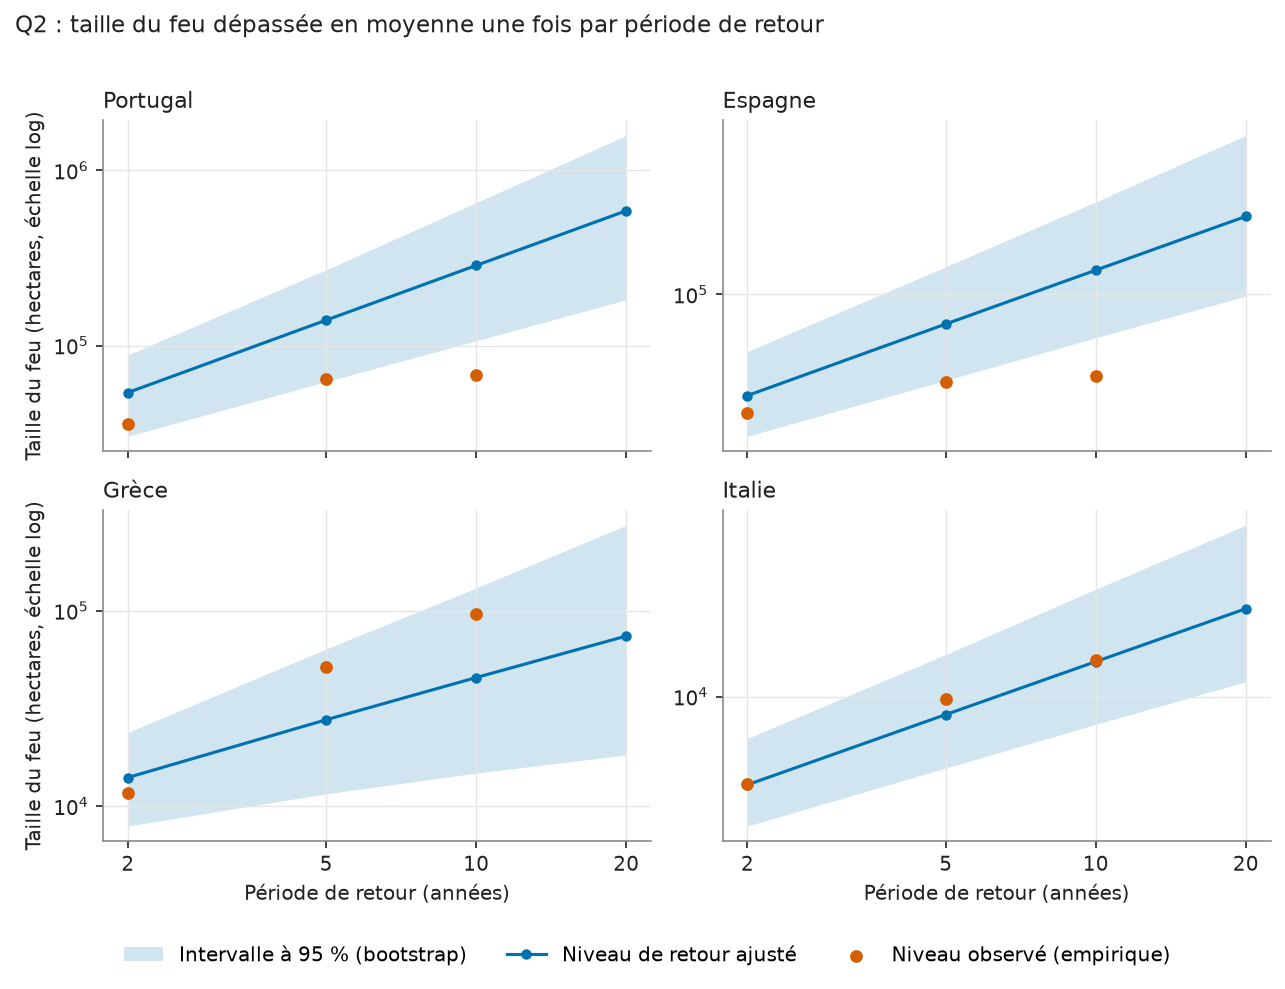
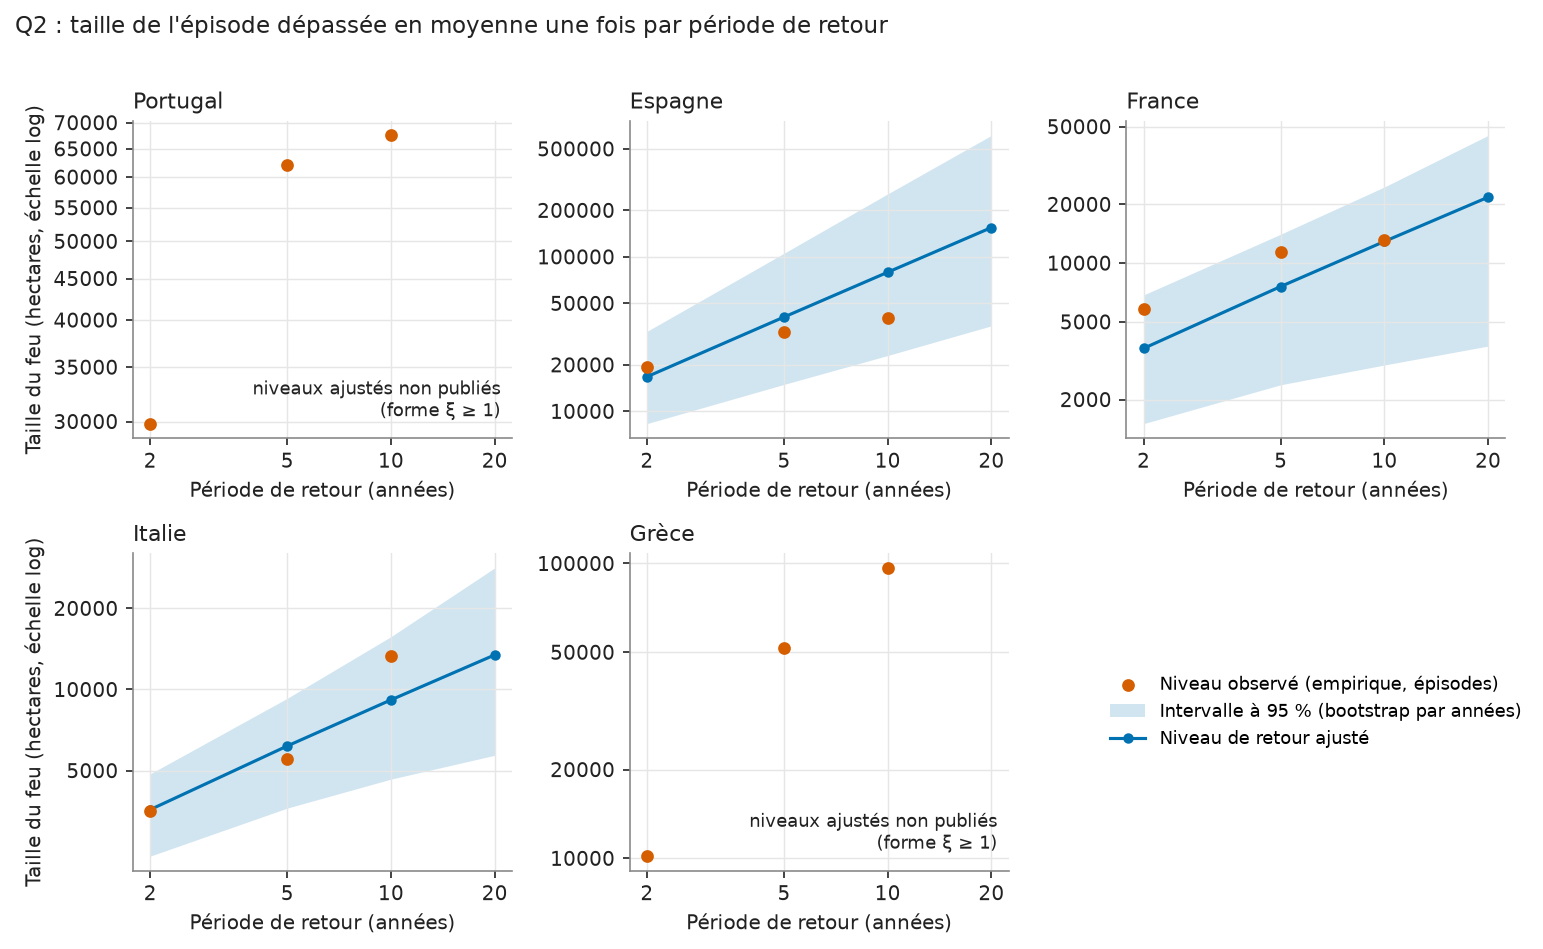
docs(models): Q2 card for episodes above 500 ha, block bootstrap, perimeter and before/after table

diff --git a/docs/models/q2-tail-risk.md b/docs/models/q2-tail-risk.md
@@ -1,8 +1,9 @@
 # Carte de modèle : Q2, queue des tailles de feux
 
-Run MLflow : `d5672f4785b64c8f8487e87cf845694c` (expérience `q2_tail_risk`, run
-`country_20261109`), 2026-11-09. Les deux tables `tail_risk_country` et
-`tail_risk_levels` portent ce `run_id` sur chaque ligne.
+Run MLflow : `919e872312014525961c955053b1f8b5` (expérience `q2_tail_risk`, run
+`country_20261109`, tag `published=true`), 2026-11-09. Les tables
+`tail_risk_country`, `tail_risk_levels` et `tail_risk_threshold_stability` portent
+ce `run_id` sur chaque ligne.
 
 ## Question
 
@@ -14,14 +15,22 @@ qui est dominée par la saison la plus sèche de la période.
 ## Données
 
 - Table `fact_fireevent`, lignes EFFIS : un feu cartographié, sa surface en
-  hectares, sa date de départ, son pays.
-- Plancher de 30 ha : les feux plus petits ne sont pas modélisés.
-- 50 pays ou territoires, 41 578 feux au total. 28 pays ont 10 années complètes
-  (2016 à 2025) ; les 22 autres entrent plus tard dans le registre et ont de 1 à 9
-  années, l'Ukraine 6 (2020 à 2025).
+  hectares, sa date de départ, son pays. 50 pays ou territoires dans le registre.
+- Seuil absolu de 500 ha, le même partout (voir Méthode). Les feux plus petits ne
+  sont pas modélisés.
 - Seules les années complètes comptent : l'extraction 2026 s'arrête en juillet,
   avant la plus grande part de la saison du Sud, et la compter comme une année
-  entière ferait baisser le taux de feux.
+  entière ferait baisser le taux. La période de chaque pays va de son premier
+  enregistrement, de toute taille, à 2025 : 2016 à 2025 pour les 28 pays les plus
+  anciens du registre.
+- **Périmètre publié : 8 pays sur 50.** Pays de l'UE27 avec au moins 8 années
+  complètes et au moins 30 épisodes au-dessus du seuil : Bulgarie, Croatie,
+  Espagne, France, Grèce, Italie, Portugal, Roumanie. Les 42 autres sont exclus :
+  24 hors UE27 (Algérie, Ukraine, Turquie, Syrie et d'autres, dont la complétude du
+  registre n'est pas évaluée), 15 de l'UE27 avec moins de 30 épisodes (dont
+  l'Allemagne : 7), 3 de l'UE27 avec moins de 8 années (Autriche, Lituanie,
+  Slovaquie). Le motif est dans la colonne `scope_reason` de la table complète,
+  loguée comme artefact `perimeter` du run.
 
 ## Méthode
 
@@ -29,155 +38,175 @@ Une loi de probabilité ajustée sur tous les feux décrirait surtout les petits
 On ne modélise donc que la queue, par la méthode des dépassements de seuil
 (peaks over threshold), pays par pays :
 
-1. **Seuil** : le quantile 90 % des surfaces du pays (`threshold_quantile=0.9`).
-   Pour le Portugal, 835,7 ha. Les feux au-dessus du seuil sont les
-   dépassements : 214 sur 10 ans, soit un taux de 21,4 par an.
-2. **Loi de Pareto généralisée (GPD)** sur l'excès de chaque dépassement au-dessus
-   du seuil, ajustée par maximum de vraisemblance. Deux paramètres : une échelle
+1. **Seuil absolu de 500 ha.** Un quantile des tailles du pays dépendrait du plancher de
+   cartographie EFFIS, qui est passé de 15 à 24 ha avant 2020 à 0 à 1 ha après : le
+   quantile 90 d'un mélange qui change de composition. Le nombre annuel de feux de
+   plus de 500 ha ne dépend pas de ce plancher.
+2. **Déclustering par épisode.** Dans un même pays, les feux au-dessus du seuil dont
+   les dates sont séparées de 3 jours ou moins sont fusionnés en un épisode, chaîné
+   (chaque feu est comparé au précédent dépassement). On garde le plus gros feu de
+   l'épisode. Les dépassements groupés sont un même épisode météo et ne sont pas
+   indépendants, ce que la loi suppose. Le Portugal passe ainsi de 313 feux de plus
+   de 500 ha à 63 épisodes.
+3. **Loi de Pareto généralisée (GPD)** sur l'excès de chaque épisode au-dessus du
+   seuil, ajustée par maximum de vraisemblance. Deux paramètres : une échelle
    et une **forme** ξ. La forme dit à quelle vitesse la queue s'amincit. ξ = 0 :
    décroissance exponentielle. ξ > 0 : queue lourde, les très gros feux restent
    plausibles. ξ ≥ 1 : l'espérance de l'excès n'existe plus, c'est-à-dire que la
-   moyenne des plus gros feux n'est pas bornée par le modèle.
-3. **Niveau de retour** x_T : la taille dépassée en moyenne une fois toutes les
-   T années, `x_T = u + (sigma / xi) * ((T * taux)^xi - 1)`. C'est ce que montre la
-   courbe : on lit « un feu d'au moins x hectares une fois tous les T ans ».
-4. **Intervalle** : 500 rééchantillonnages bootstrap des dépassements, refit à
-   chaque fois, percentiles 2,5 % et 97,5 % (`n_boot=500`).
-5. **Horizon publié** : un niveau n'est publié que jusqu'à deux fois la durée
-   observée. Avec 10 ans de données, les niveaux à 2, 5, 10 et 20 ans sont
-   publiés, celui à 50 ans est nul par construction.
-6. **Seuil d'estimabilité** : moins de 30 dépassements, le pays reste dans la
-   table avec des estimations nulles. Ici 20 pays sur 50 sont estimés ; le plus
-   petit a 34 dépassements, le plus gros pays non estimé en a 26.
+   moyenne des plus gros feux n'est pas bornée par le modèle. Le taux est le
+   nombre d'épisodes par année observée.
+4. **Niveau de retour** x_T : la taille de l'épisode dépassée en moyenne une fois
+   toutes les T années, `x_T = u + (sigma / xi) * ((T * taux)^xi - 1)`.
+5. **Intervalle par bootstrap par blocs d'années.** 500 réplicats : on tire
+   autant d'années que d'années observées, avec remise, chaque année apportant tous
+   ses épisodes (une année sans épisode n'en apporte aucun), puis on réajuste.
+   L'incertitude sur le nombre d'épisodes par an est donc dans la bande, de même que
+   la dépendance à l'intérieur d'une année. Percentiles 2,5 % et 97,5 %.
+6. **Règle de publication d'un niveau.** Un niveau n'est publié que si ξ ponctuel
+   est strictement inférieur à 1 et si la période de retour ne dépasse pas deux
+   fois la durée observée (20 ans avec 10 ans de registre : le niveau à 50 ans est
+   nul par construction). Un niveau absent est nul et deux colonnes disent pourquoi :
+   `shape_below_one` (pays) et `within_horizon` (niveau), `published` valant leur
+   conjonction dans `tail_risk_levels`.
+7. **Stabilité du seuil.** Table `tail_risk_threshold_stability` : pour chaque pays du
+   périmètre, ξ et son intervalle (200 réplicats) aux seuils 200, 300, 500 et
+   1 000 ha, avec re-déclustering à chaque seuil.
 
 Le niveau empirique est affiché en regard : c'est la taille du k-ième plus gros
-feu observé, avec k = années / T. À 10 ans, c'est donc le plus gros feu de la
+épisode observé, avec k = années / T. À 10 ans, c'est donc le plus gros feu de la
 période.
 
 ## Validation
 
-- Tests (`tests/test_models_extremes.py`) : la GPD retrouve des paramètres connus
-  sur un échantillon simulé, le niveau de retour et la période de retour sont des
-  fonctions inverses, l'horizon suit la durée observée, une année finale partielle
-  est exclue, les pays inestimables sont listés et non supprimés.
+- Tests (`tests/test_models_extremes.py`) : des feux espacés de 1 ou 2 jours forment un
+  seul épisode et 4 jours en font deux ; la GPD ajustée sur des épisodes simulés
+  retrouve ξ = 0,4, l'échelle et le taux connus (400 années simulées) ; le bootstrap
+  par blocs donne une bande plus large qu'un rééchantillonnage des épisodes à taux fixe quand le taux
+  varie beaucoup d'une année à l'autre ; le périmètre et ses trois motifs d'exclusion ; la
+  règle de publication (ξ ≥ 1 et horizon) ; le schéma des trois tables ; une année finale
+  partielle est exclue ; le tag `published` ne reste que sur le dernier run.
 - Contrôle visuel sur les données réelles : la figure ci-dessous place le niveau
-  empirique sur la courbe ajustée, pour quatre pays.
+  empirique sur la courbe ajustée, là où elle est publiée.
 
-![Niveaux de retour ajustés avec intervalle à 95 %, niveaux observés en points, Portugal, Espagne, Grèce, Italie](../img/models/q2_return_levels.png)
+![Niveaux de retour ajustés avec intervalle à 95 %, niveaux observés en points, Portugal, Espagne, France, Italie, Grèce](../img/models/q2_return_levels.png)
 
 Aucun test d'adéquation de la GPD (Anderson-Darling ou autre) n'est calculé dans
-le dépôt. La table de stabilité du seuil (`threshold_stability` dans
-`src/models/extremes.py`) existe mais n'est pas matérialisée dans `model_out`.
+le dépôt.
 
 ## Limites
 
-**Dix années de registre ne permettent pas de vérifier un niveau de retour au-delà
-de dix à vingt ans, et pour le Portugal et l'Espagne le plus gros feu observé est
-sous la borne basse de l'intervalle à 95 % du niveau décennal ajusté.** Un niveau
-décennal n'est pas atteint dans dix ans environ une fois sur trois (e^-1, soit
-37 %), donc un maximum observé sous le niveau ajusté n'est pas anormal en soi. Mais
-sortir de l'intervalle par le bas, comme ici, signale que le modèle et les données ne
-s'accordent pas bien, ou que l'intervalle est trop étroit. Les deux lectures sont
-possibles avec ce qu'on a calculé.
+**Le Portugal et la Grèce n'ont pas de niveau de retour publié : leur forme
+ponctuelle est au-dessus de 1 (1,64 et 1,28).** Ce n'est pas un défaut de
+présentation, c'est le résultat : avec 10 ans de registre, le modèle ne décrit
+pas une queue dont la moyenne est finie pour ces deux pays, et un niveau de
+retour y serait une extrapolation sans borne. L'ancienne version (seuil au
+quantile 90, tous les feux, bootstrap des feux) publiait pour le Portugal un
+niveau à 10 ans de 286 596 ha, 4,2 fois le plus gros feu observé.
 
-- **Intervalle trop étroit par construction.** Le bootstrap rééchantillonne les
-  dépassements, mais le seuil et le taux annuel sont tenus fixes dans chaque
-  réplique. L'incertitude sur le nombre de gros feux par an n'est pas dans la bande.
-- **Indépendance supposée.** La GPD suppose des dépassements indépendants. Dans les
-  faits, les gros feux se regroupent dans les années sèches et dans les mêmes
-  régions. Pas de tendance, pas de covariable.
-- **Forme proche ou au-dessus de 1.** Au Portugal ξ = 1,04 : l'extrapolation au-delà
-  de la plus grande observation est très sensible à ce paramètre, ce qui explique la
-  largeur des intervalles (niveau à 20 ans : 182 365 à 1 583 842 ha).
-- **Surface cartographiée.** Le plancher de 30 ha et le périmètre EFFIS fixent ce
-  qu'on appelle un feu. Les pays hors de l'Union (Algérie, Ukraine, Turquie et
-  d'autres) sont couverts par un registre dont la complétude n'est pas évaluée dans cette carte.
-- **30 pays sans estimation.** Pour eux, la table ne dit rien de la queue.
+- **ξ n'est pas stable selon le seuil.** Au Portugal, ξ vaut 1,80, 1,65, 1,64 puis 0,80
+  aux seuils 200, 300, 500 et 1 000 ha. Il est plus bas à 1 000 ha qu'à 200 ha dans les
+  cinq pays détaillés (Italie : 0,85 à 0,36), sans être monotone partout. Le régime asymptotique n'est donc pas atteint à
+  500 ha pour les pays ibériques et la Grèce, ou 10 ans ne permettent pas de le
+  voir. À 1 000 ha, les intervalles de quatre des cinq pays contiennent ou touchent 1.
+- **Seulement 10 ans.** Un niveau à 10 ans est lui-même proche de la durée du
+  registre, et un maximum observé inférieur au niveau ajusté n'a rien d'anormal : un
+  niveau décennal n'est pas atteint en dix ans environ une fois sur trois (e^-1, soit 37 %).
+- **Intervalles larges, par blocs de 10 années.** Avec 10 blocs, le bootstrap
+  par années est grossier. Il propage l'incertitude du taux, mais ne l'estime pas
+  finement. L'Espagne est publiée avec ξ = 0,96, à la limite de la règle ; son niveau
+  à 20 ans va de 35 772 à 611 014 ha.
+- **Seuil de 500 ha et déclustering de 3 jours** sont des choix, pas des estimations.
+  La fenêtre de 3 jours fusionne les feux d'un même épisode météo, mais pas
+  deux vagues séparées d'une semaine. La tendance et les covariables ne sont pas modélisées.
+- **Registre EFFIS.** Le périmètre cartographié fixe ce qu'on appelle un feu. Les pays
+  exclus du périmètre (hors UE27 surtout) ne sont pas décrits par cette carte.
+- **42 pays hors périmètre.** La table ne dit rien de leur queue.
 
 ## Résultats
 
-La figure suivante donne la forme ξ et son intervalle pour les 20 pays estimés.
-Les barres sombres sont les quatre pays détaillés plus bas.
+La figure suivante donne la forme ξ et son intervalle pour les 8 pays du périmètre.
+Orange : ξ ponctuel au-dessus de 1, niveaux non publiés.
 
 ![Paramètre de forme de la GPD par pays avec intervalle à 95 %](../img/models/q2_shape.png)
 
-- La forme médiane est 0,60. Elle va de 0,001 (Croatie) à 1,036 (Portugal). Un seul
-  pays dépasse 1 en estimation ponctuelle, cinq ont leur borne haute à 1 ou plus,
-  trois ont leur borne basse sous 0 (Croatie, Tunisie, Kosovo). Un intervalle qui
-  contient 0 ne distingue pas la queue d'une exponentielle.
-- Les pays à queue la plus lourde sont les pays ibériques et la France (Portugal
-  1,04, France 0,95, Espagne 0,87). L'Italie (0,60) a la plus grande base de feux
-  parmi les quatre (455 dépassements) et l'intervalle le plus étroit.
+Cinq pays, comparaison avec l'ancienne version (tailles en hectares, intervalles à
+95 %). « Avant » : seuil au quantile 90 des feux de 30 ha et plus, tous les feux,
+bootstrap des feux. « Après » : seuil de 500 ha, épisodes, bootstrap par années.
 
-Quatre pays, niveau décennal (tailles en hectares, intervalles à 95 %) :
-
-| Pays | Feux ≥ 30 ha | Seuil | Dépassements | Forme ξ | Niveau à 10 ans ajusté | Plus gros feu observé |
-|---|---|---|---|---|---|---|
-| Portugal | 2 140 | 836 | 214 | 1,04 [0,76 ; 1,28] | 286 596 [106 371 ; 653 881] | 67 521 |
-| Espagne | 2 846 | 559 | 285 | 0,87 [0,66 ; 1,06] | 131 517 [61 459 ; 283 575] | 40 081 |
-| Grèce | 638 | 1 139 | 64 | 0,69 [0,13 ; 1,10] | 45 557 [14 772 ; 130 925] | 96 610 |
-| Italie | 4 549 | 297 | 455 | 0,60 [0,47 ; 0,72] | 13 150 [8 039 ; 23 204] | 13 278 |
+| Pays | Dépassements avant | Épisodes après | ξ avant | ξ après | Niveau à 10 ans avant | Niveau à 10 ans après | Plus gros feu observé |
+|---|---|---|---|---|---|---|---|
+| Portugal | 214 | 63 | 1,04 [0,76 ; 1,28] | 1,64 [1,06 ; 2,24] | 286 596 [106 371 ; 653 881] | non publié (ξ ≥ 1) | 67 521 |
+| Espagne | 285 | 113 | 0,87 [0,66 ; 1,06] | 0,96 [0,59 ; 1,29] | 131 517 [61 459 ; 283 575] | 79 517 [22 980 ; 255 627] | 40 081 |
+| France | 172 | 37 | 0,95 [0,68 ; 1,18] | 0,73 [0,15 ; 1,02] | 19 585 [7 861 ; 45 468] | 12 913 [3 007 ; 24 556] | 13 116 |
+| Italie | 455 | 63 | 0,60 [0,47 ; 0,72] | 0,53 [0,04 ; 0,87] | 13 150 [8 039 ; 23 204] | 9 150 [4 650 ; 15 709] | 13 278 |
+| Grèce | 64 | 57 | 0,69 [0,13 ; 1,10] | 1,28 [0,35 ; 2,70] | 45 557 [14 772 ; 130 925] | non publié (ξ ≥ 1) | 96 610 |
 
 Lecture :
 
-- **Italie** : niveau ajusté et plus gros feu observé coïncident (13 150 contre
-  13 278 ha).
-- **Grèce** : le plus gros feu observé (96 610 ha) est plus du double du niveau
-  ajusté (45 557 ha) mais reste dans l'intervalle. Seulement 64 dépassements, d'où
-  l'intervalle de forme le plus large des 20 pays estimés (0,97 de large).
-- **Portugal, Espagne** : niveau ajusté 4,2 et 3,3 fois le plus gros feu observé,
-  observé hors de l'intervalle (voir Limites).
-- Fréquence des feux de 10 000 ha ou plus selon le modèle : une fois tous les 0,40 an
-  au Portugal, 0,54 an en Espagne, 1,29 an en Grèce, 6,33 ans en Italie.
+- **La borne basse du niveau à 10 ans ne dépasse plus le plus gros feu observé**, pour
+  les trois pays où un niveau est publié (Espagne 22 980 contre 40 081, France 3 007
+  contre 13 116, Italie 4 650 contre 13 278). Pour le Portugal et la Grèce, la question
+  ne se pose pas : pas de niveau.
+- **France et Italie** : le plus gros feu observé est dans l'intervalle du niveau à 10 ans.
+  En France il coïncide presque avec le niveau ajusté (13 116 contre 12 913 ha) ; en Italie il est au-dessus
+  (13 278 contre 9 150 ha).
+- **Espagne** : le niveau ajusté est 2 fois le plus gros feu observé, intervalle de 22 980
+  à 255 627 ha, la limite haute de ξ est à 1,29.
+- **Fréquence des feux de 10 000 ha ou plus** (pays publiés avec un ajustement fini) :
+  une fois tous les 1,2 an en Espagne, 7,2 ans en France, 11,7 ans en Italie.
+- **Bulgarie, Croatie, Roumanie** (ξ de 0,46, 0,24 et 0,35) ont les queues les moins
+  lourdes. Leur borne basse de ξ est sous 0 pour la Bulgarie et la Croatie, à 0,00
+  pour la Roumanie : l'intervalle ne distingue pas la queue d'une exponentielle.
 
 À prendre ainsi : un classement des pays par queue de distribution, avec ses
-intervalles, et un ordre de grandeur des niveaux jusqu'à 20 ans. Pas une
-prévision de la taille du prochain grand feu.
+limites, et un ordre de grandeur des niveaux à 10 et 20 ans pour six pays. Pas une
+prévision de la taille du prochain grand feu, et pas de chiffre pour le Portugal ni la Grèce.
+
+Stabilité du seuil, cinq pays :
+
+![Forme ξ selon le seuil (200, 300, 500, 1 000 ha), intervalle à 95 %](../img/models/q2_threshold_stability.png)
 
 ## Reproduire
 
 Les chiffres ci-dessus sortent de ces commandes, lancées à la racine du dépôt
-(tables dans `data/lake/gold/model_out/`, locales et non versionnées).
+(tables dans `data/lake/gold/model_out/`, locales et non versionnées). Les données
+d'entrée sont lues avec les variables d'environnement de l'étape de reconstruction
+ci-dessous ; les commandes de lecture n'en ont pas besoin.
 
-Tableau des quatre pays (feux, seuil, dépassements, forme, niveau à 10 ans, plus
-gros feu, `run_id`) :
-
-```bash
-uv run python -c "import pandas as pd; t=pd.read_parquet('data/lake/gold/model_out/tail_risk_country.parquet'); print(t[t.country_key.isin(['PT','ES','GR','IT'])][['country_key','n_fires','threshold_ha','n_exceedances','shape','shape_p2.5','shape_p97.5','rl_10y','rl_10y_p2.5','rl_10y_p97.5','rl_20y_p2.5','rl_20y_p97.5','largest_ha','return_period_10k_ha_years','run_id']].round(2).to_string())"
-```
-
-Comptes et statistiques de forme (50 pays, 20 estimés, 41 578 feux, médiane 0,60,
-un seul pays au-dessus de 1, cinq avec borne haute à 1 ou plus, trois avec borne
-basse sous 0, dépassements minimal et maximal) :
+Tableau des cinq pays (feux, épisodes, forme, niveau à 10 ans, plus gros feu, `run_id`) :
 
 ```bash
-uv run python -c "import pandas as pd; t=pd.read_parquet('data/lake/gold/model_out/tail_risk_country.parquet'); s=t['shape']; print(len(t), s.notna().sum(), t.n_fires.sum(), round(s.median(),3), (s>1).sum(), (t['shape_p97.5']>=1).sum(), (t['shape_p2.5']<0).sum(), t[s.notna()].n_exceedances.min(), t[s.isna()].n_exceedances.max()); print(t[s.notna()].sort_values('shape')[['country_key','shape','shape_p2.5','shape_p97.5']].round(3).to_string())"
+uv run python -c "import pandas as pd; t=pd.read_parquet('data/lake/gold/model_out/tail_risk_country.parquet'); print(t[t.country_key.isin(['PT','ES','FR','IT','GR'])][['country_key','n_fires','n_exceedances','shape','shape_p2.5','shape_p97.5','shape_below_one','rl_10y','rl_10y_p2.5','rl_10y_p97.5','rl_20y_p2.5','rl_20y_p97.5','largest_ha','return_period_10k_ha_years','run_id']].round(2).to_string())"
 ```
 
-Période observée par pays (10 ans, Ukraine 6) :
+Stabilité du seuil :
 
 ```bash
-uv run python -c "import pandas as pd; t=pd.read_parquet('data/lake/gold/model_out/tail_risk_country.parquet'); print(t.groupby(['first_year','years']).size())"
+uv run python -c "import pandas as pd; s=pd.read_parquet('data/lake/gold/model_out/tail_risk_threshold_stability.parquet'); print(s.round(2).to_string())"
 ```
 
-Niveaux de retour de la figure (2, 5, 10, 20 ans, ajustés et empiriques) :
+Périmètre (motif d'exclusion de chacun des 50 pays), à partir des données d'entrée :
 
 ```bash
-uv run python -c "import pandas as pd; l=pd.read_parquet('data/lake/gold/model_out/tail_risk_levels.parquet'); print(l[l.country_key.isin(['PT','ES','GR','IT'])].round(0).to_string())"
+uv run python -c "import pandas as pd; from src import lake; from src.models import extremes; e=pd.read_parquet(lake.GOLD_STAR/'fact_fireevent.parquet'); e=e[e.source_key=='EFFIS_RDA']; t=extremes.tail_risk_table(e,n_boot=2); print(t.scope_reason.value_counts()); print(t[['country_key','years','n_fires','n_exceedances','scope_reason']].to_string())"
 ```
 
-Paramètres et métriques du run :
+Paramètres et métriques du run (seuil, fenêtre de déclustering, épisodes par pays) :
 
 ```bash
-uv run python -c "import mlflow; mlflow.set_tracking_uri('sqlite:///mlruns/mlflow.db'); r=mlflow.get_run('d5672f4785b64c8f8487e87cf845694c'); print(r.data.params, r.data.metrics)"
+uv run python -c "import mlflow; mlflow.set_tracking_uri('sqlite:///mlruns/mlflow.db'); r=mlflow.get_run('919e872312014525961c955053b1f8b5'); print(r.data.tags['published'], r.data.params, r.data.metrics)"
 ```
 
-Reconstruire la table (nouveau `run_id`) puis les figures :
+Reconstruire les tables (nouveau `run_id`, environ 4 minutes), puis les figures Q2 sans
+toucher à celles de Q1 et Q3 :
 
 ```bash
 uv run dagster asset materialize -m src.orchestration.definitions --select "gold/tail_risk_country"
-uv run python scripts/model_figures.py
+uv run python scripts/model_figures.py --only q2
 ```
 
-Si la table est reconstruite, le `run_id` en tête de cette page change : la page cite
-celui des tables actuellement dans `model_out`.
+Variables utilisées pour ce run : `WILDFIRE_GOLD_STAR` et `WILDFIRE_SILVER` pointent
+vers les données d'un autre checkout, `WILDFIRE_GOLD` vers le `data/lake/gold` de
+celui-ci. Si la table est reconstruite, le `run_id` en tête de cette page change et le
+tag `published=true` passe sur le nouveau run : la page cite celui des tables
+actuellement dans `model_out`.

diff --git a/docs/platform.md b/docs/platform.md
@@ -137,7 +137,7 @@ un seul paramètre à régler).
 
 | Page | Tables | Asset |
 |---|---|---|
-| 10 Tail risk | `tail_risk_country`, `tail_risk_levels` (niveaux de retour en format long, une ligne par pays et période) | `gold/tail_risk_country` |
+| 10 Tail risk | `tail_risk_country`, `tail_risk_levels` (niveaux de retour en format long, une ligne par pays et période), `tail_risk_threshold_stability` (forme selon le seuil, par pays) | `gold/tail_risk_country` |
 | 11 Attribution | `attribution_countryyear`, `attribution_coefficients` (nom lisible, intervalle à 95 %, multiplicateur de surface), `attribution_summary` (R² intra-pays) | `gold/attribution_countryyear` |
 | (pas de page) | `attribution_bayes_coefficients` (niveaux population, écart-type entre pays et pays : moyenne, écart-type, intervalle à 94 %, coefficient fréquentiste en regard, R-hat, ESS), `attribution_bayes_countryyear` (composante météo avec intervalle, surface ajustée, R² bayésien par pays) ; `run_id` sur chaque ligne | `gold/attribution_bayes` |
 | 12 Validation | `q1_metrics`, `q1_criterion`, `q1_importance` ; `q1_reliability` est écrite pour le site | `gold/q1_spike_results` |
